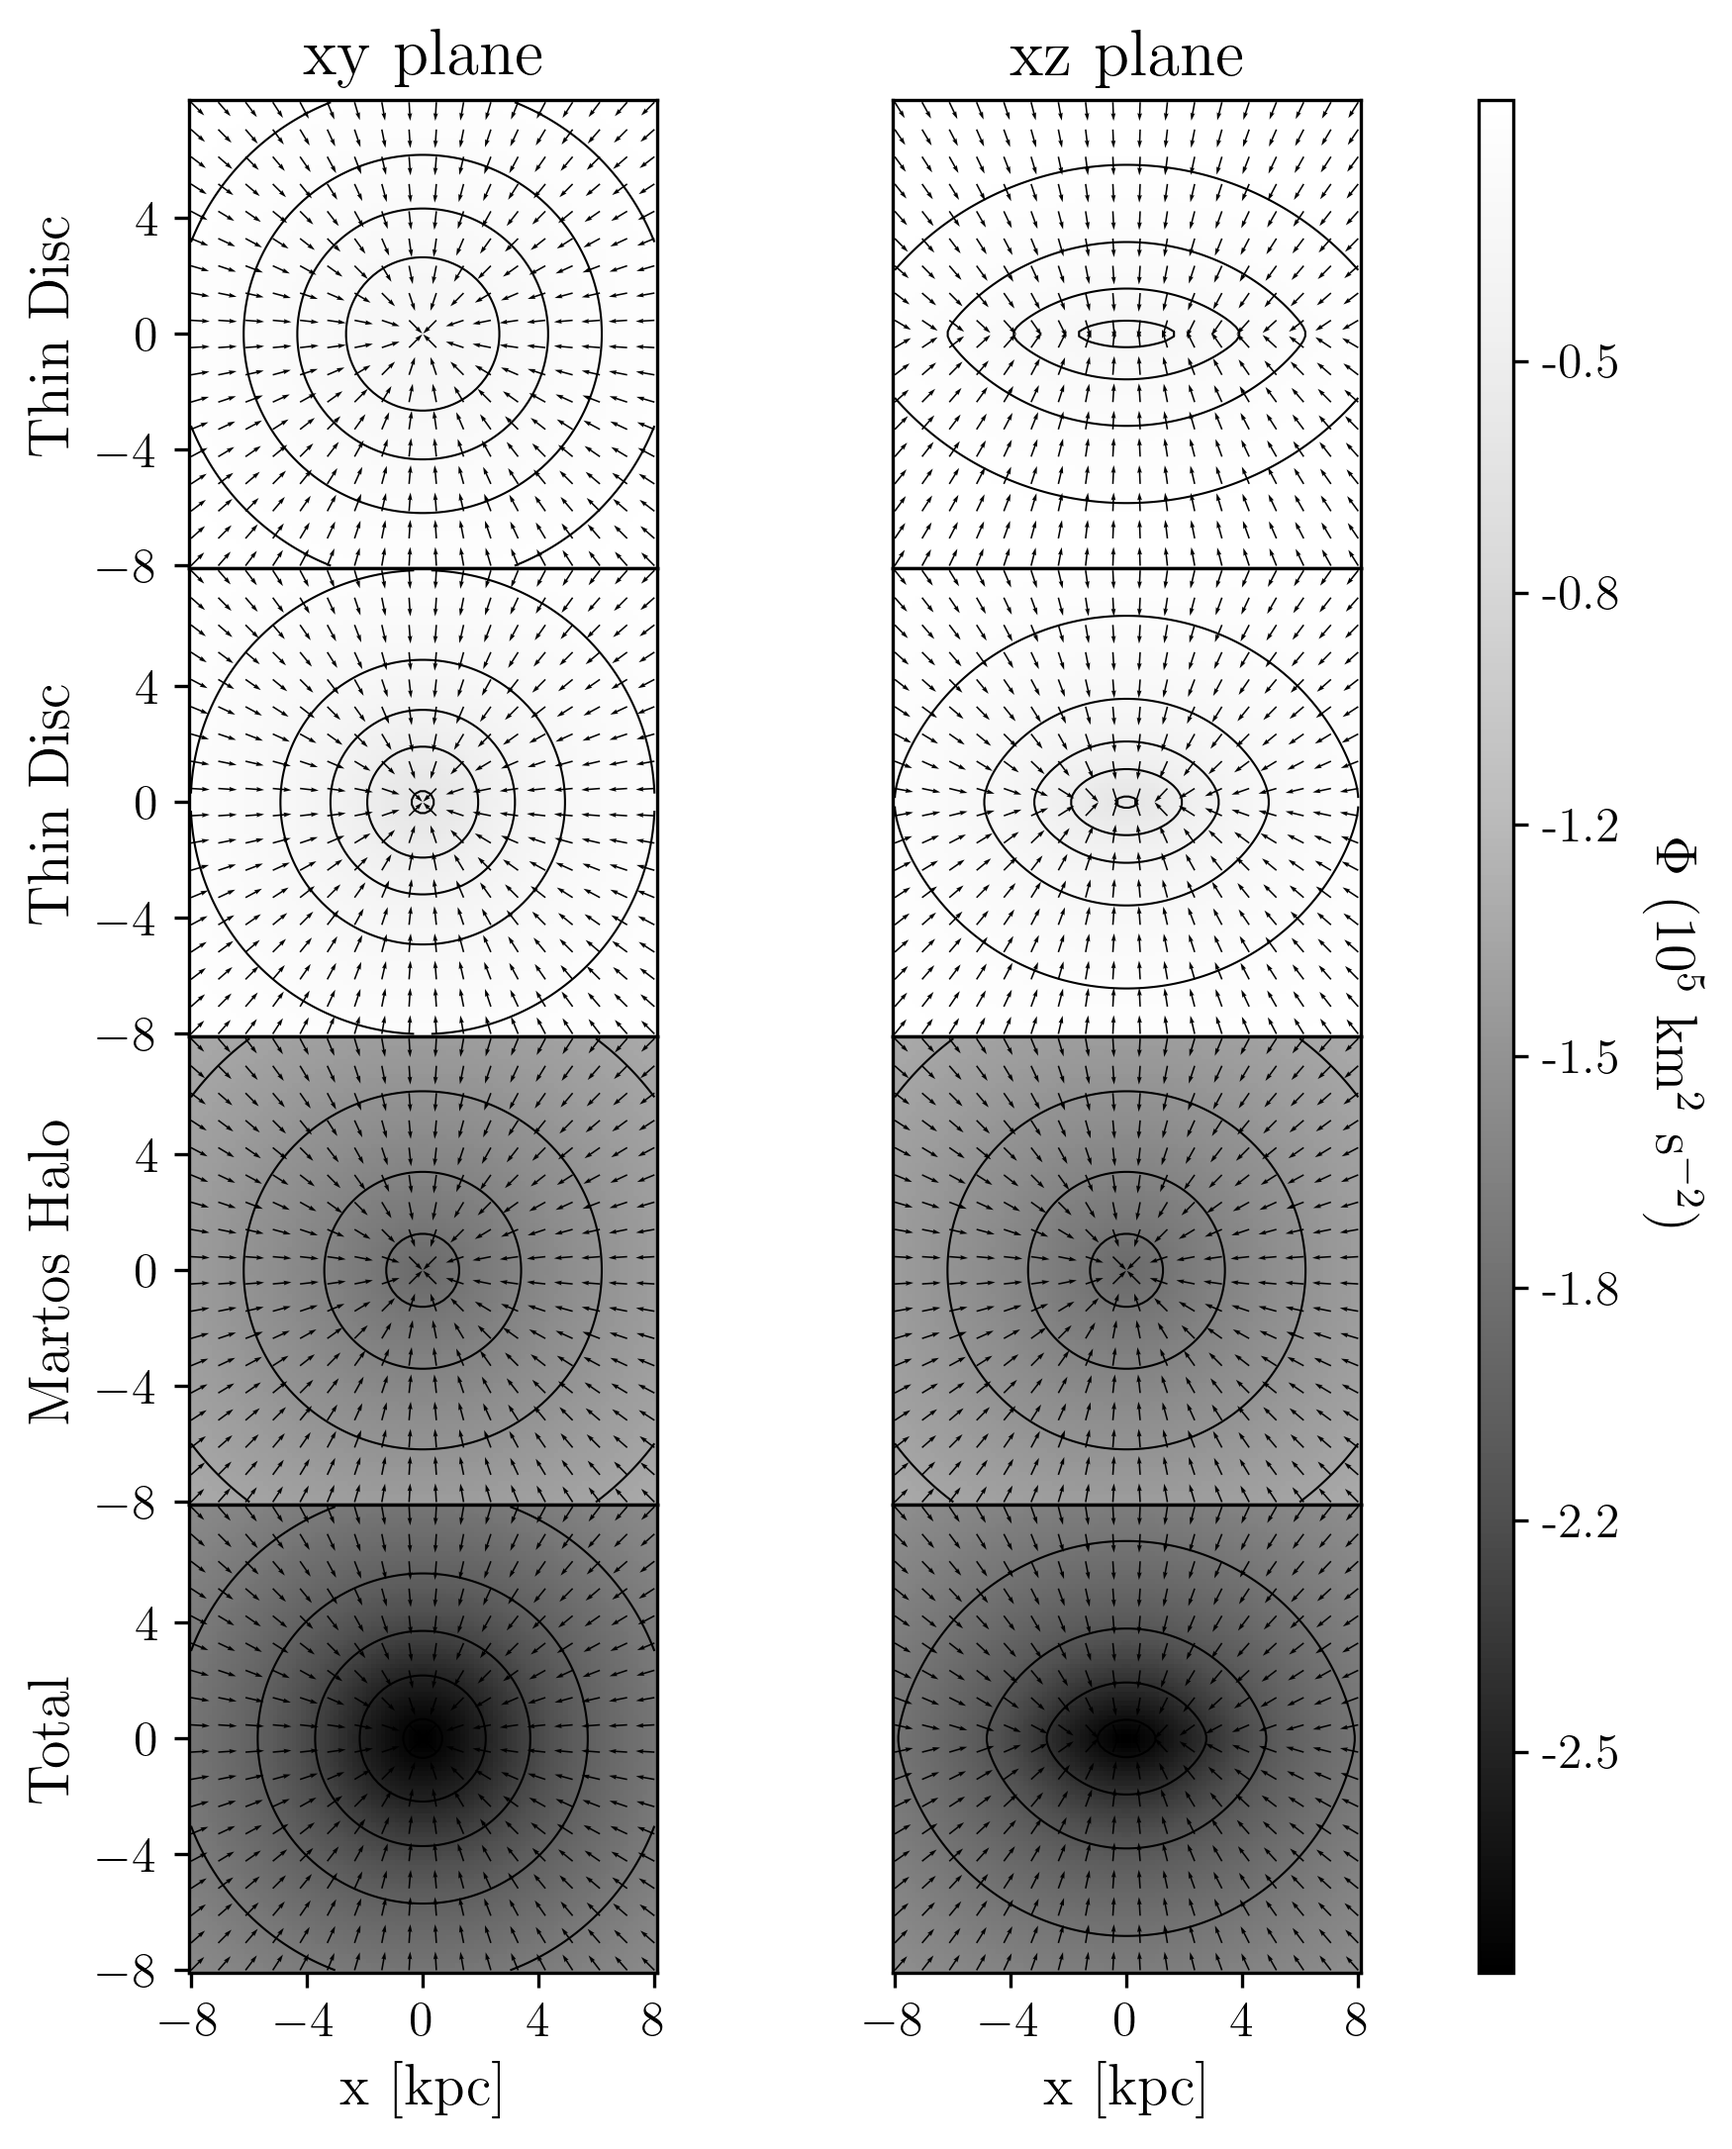
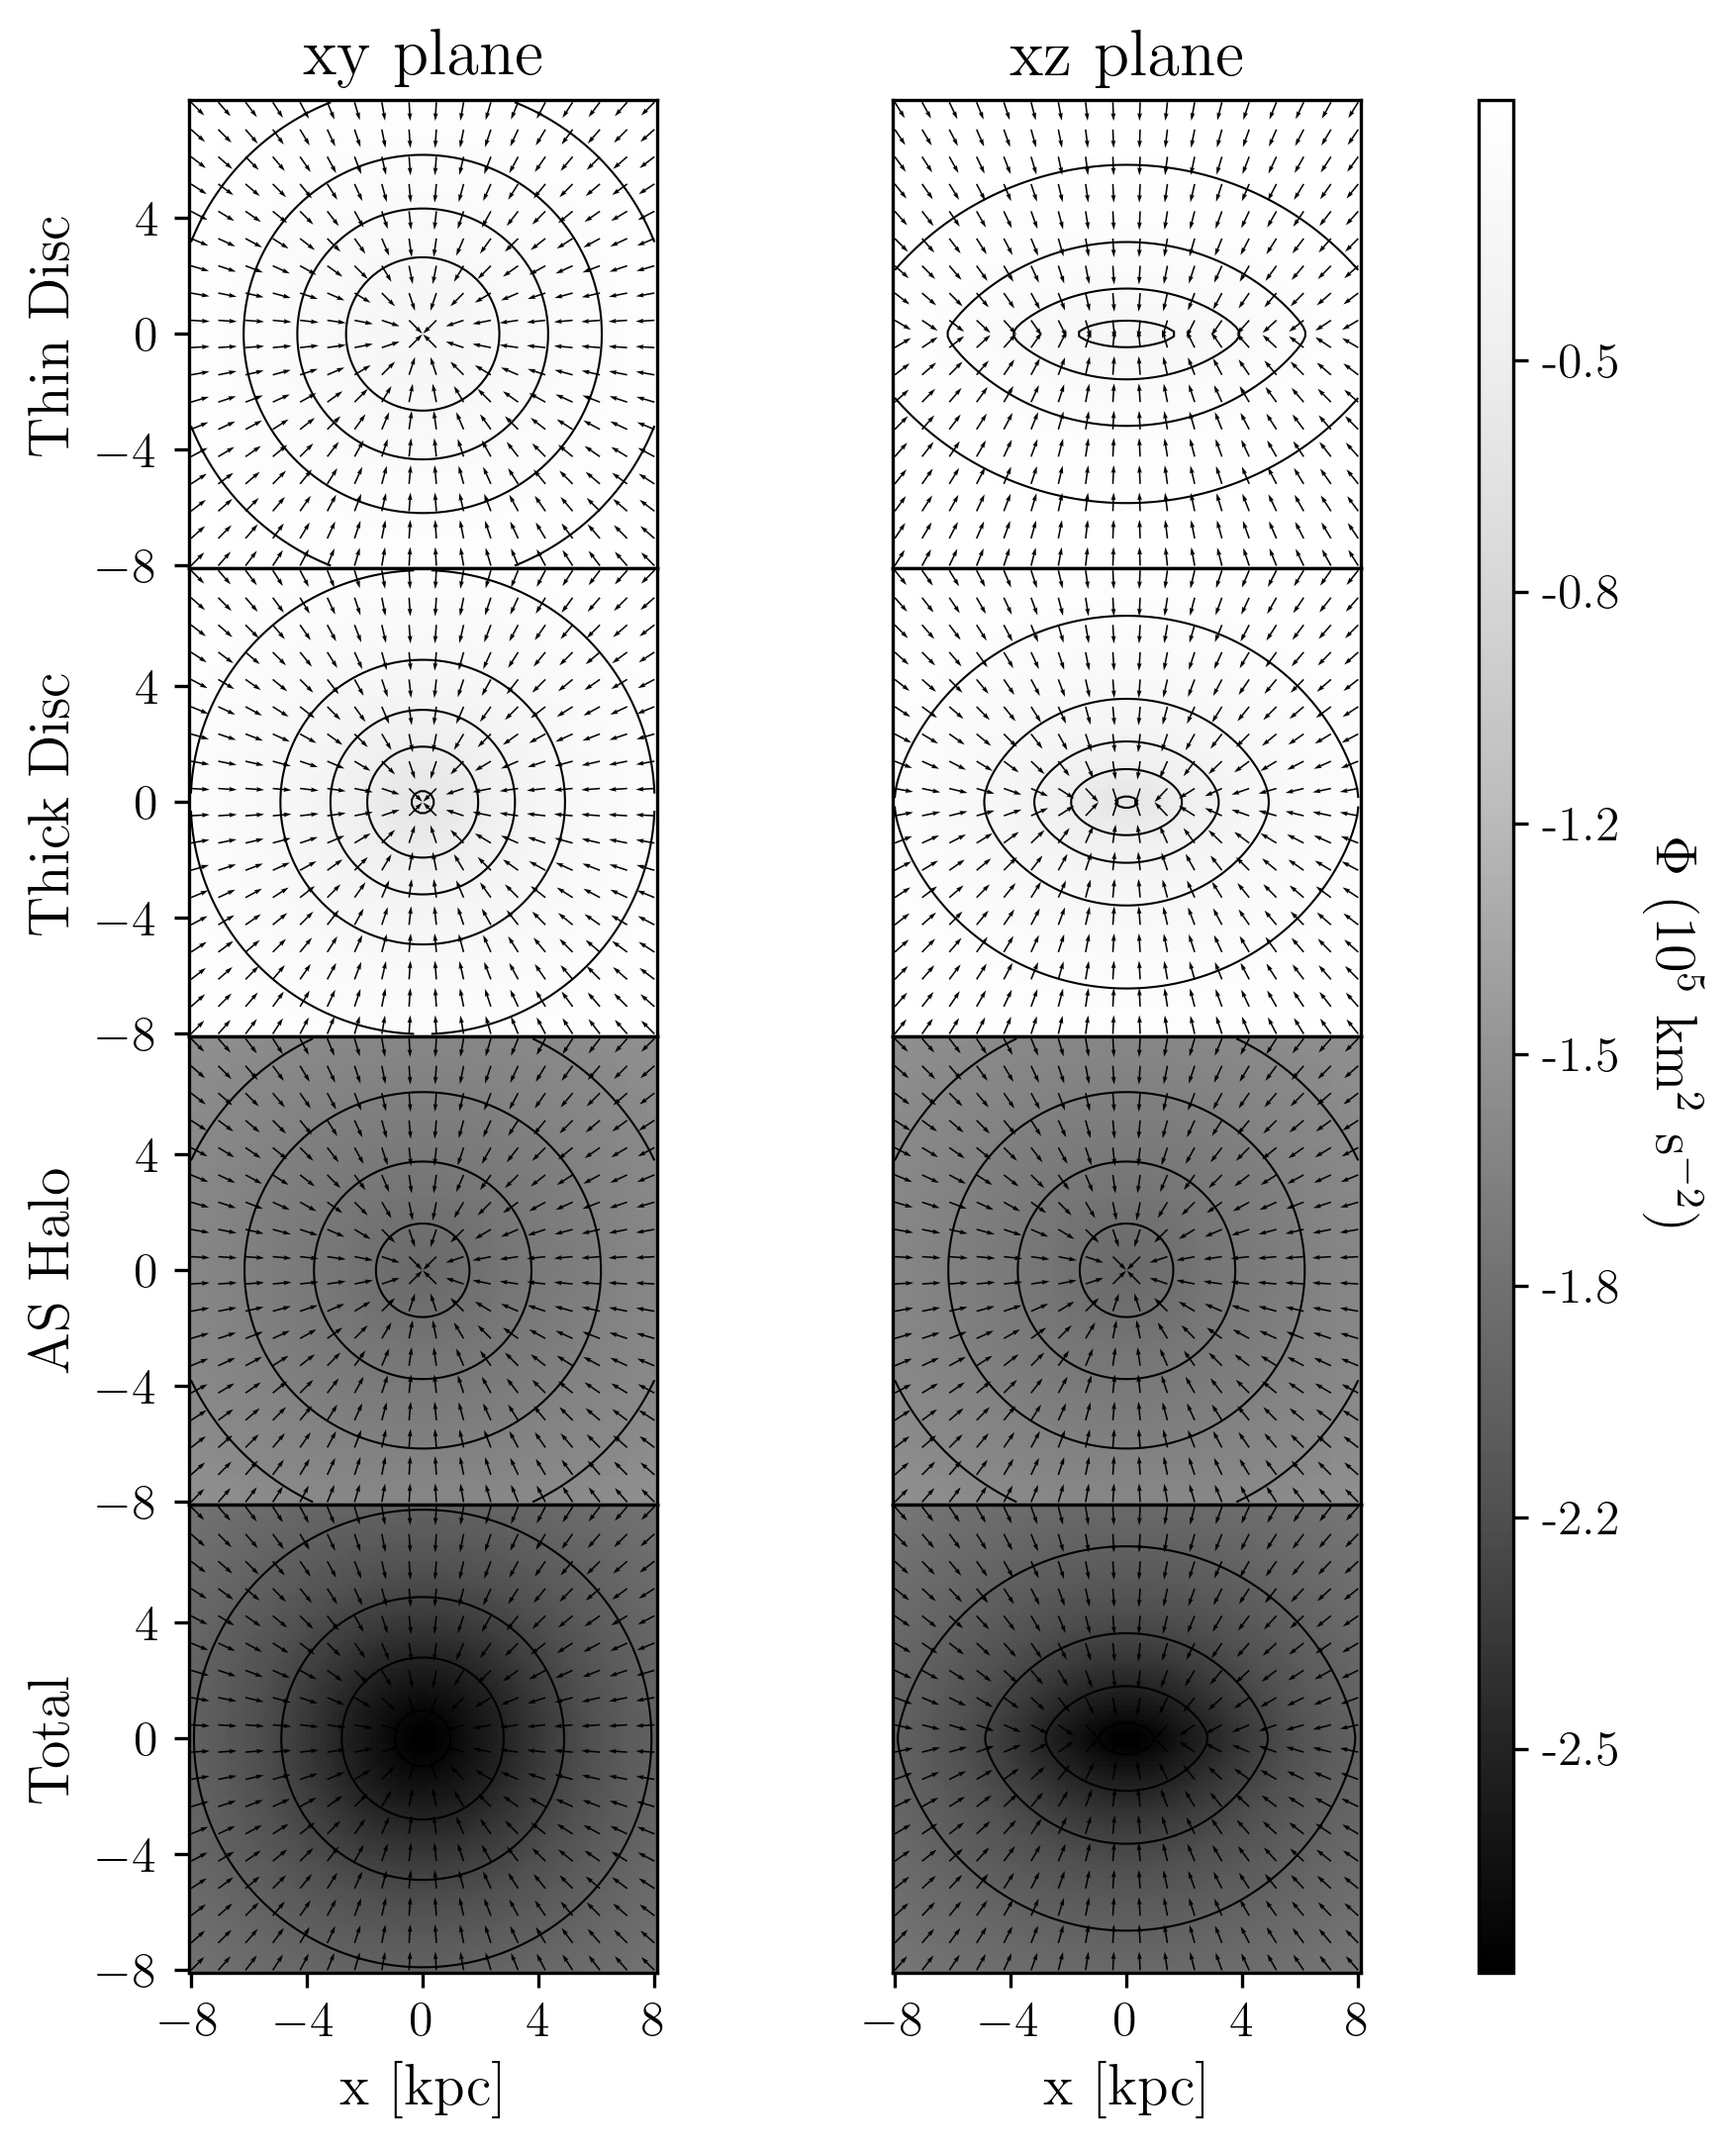
shrunk fig

diff --git a/demos/potentialDensityPairs/figure_pouliasis2017pii_potential.py b/demos/potentialDensityPairs/figure_pouliasis2017pii_potential.py
@@ -126,11 +126,11 @@ AXIS00 = {"xticks":[], "yticks":yticks,
 AXIS01 = {"xticks":[], "yticks":[],
         "ylabel":"","title":"xz plane","aspect":"equal",}
 AXIS10 = {"xticks":[], "yticks":yticks,
-        "ylabel":"Thin Disc","title":"","aspect":"equal",}
+        "ylabel":"Thick Disc","title":"","aspect":"equal",}
 AXIS11 = {"xticks":[], "yticks":[],
         "ylabel":"","title":"","aspect":"equal",}
 AXIS20 = {"xticks":[], "yticks":yticks,
-        "ylabel":"Martos Halo","title":"","aspect":"equal",}
+        "ylabel":"AS Halo","title":"","aspect":"equal",}
 AXIS21 = {"xticks":[], "yticks":[],
         "ylabel":"","title":"","aspect":"equal",}
 AXIS30 = {"xticks":xticks, "yticks":yticks,
@@ -146,7 +146,7 @@ AXIS31 = {"xticks":xticks, "yticks":[],
 fig_name="../../images/figure_pouliasis2017pii_potential_{:d}_{:d}.png".format(xlims[0],xlims[1])
 
 
-fig=plt.figure(figsize=(8.27-2,11.69-3.5))
+fig=plt.figure(figsize=(8.3-2,8.3-2))
 gs = mpl.gridspec.GridSpec(4, 3, hspace=0.0, wspace=0,width_ratios=[1,1,0.05],height_ratios=[1,1,1,1])
 axes = []
 for i in range(4):
